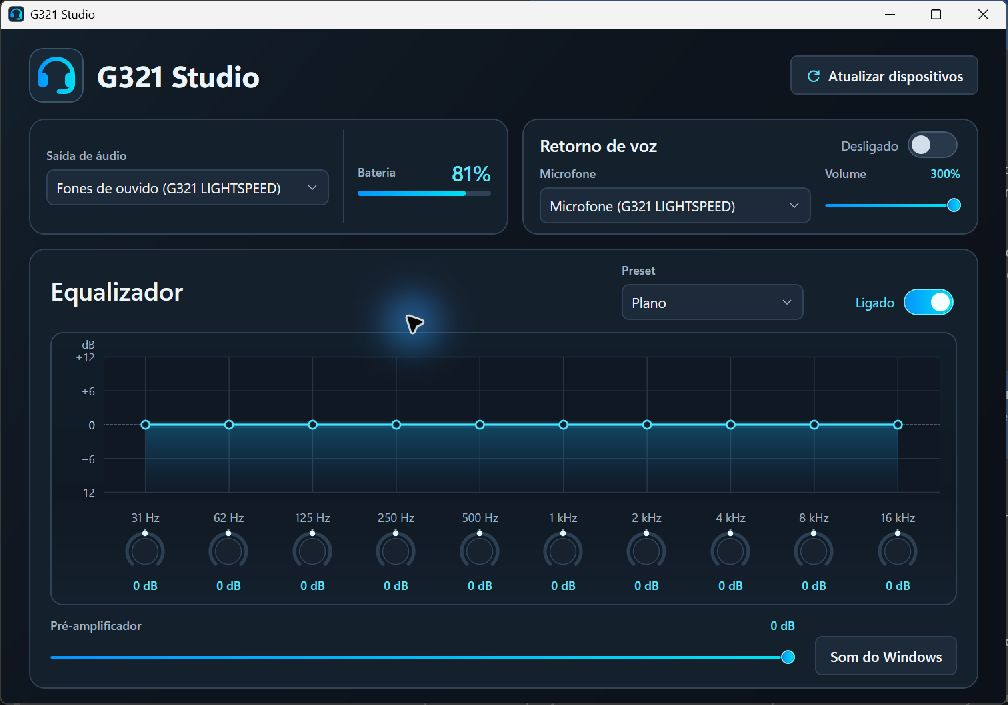
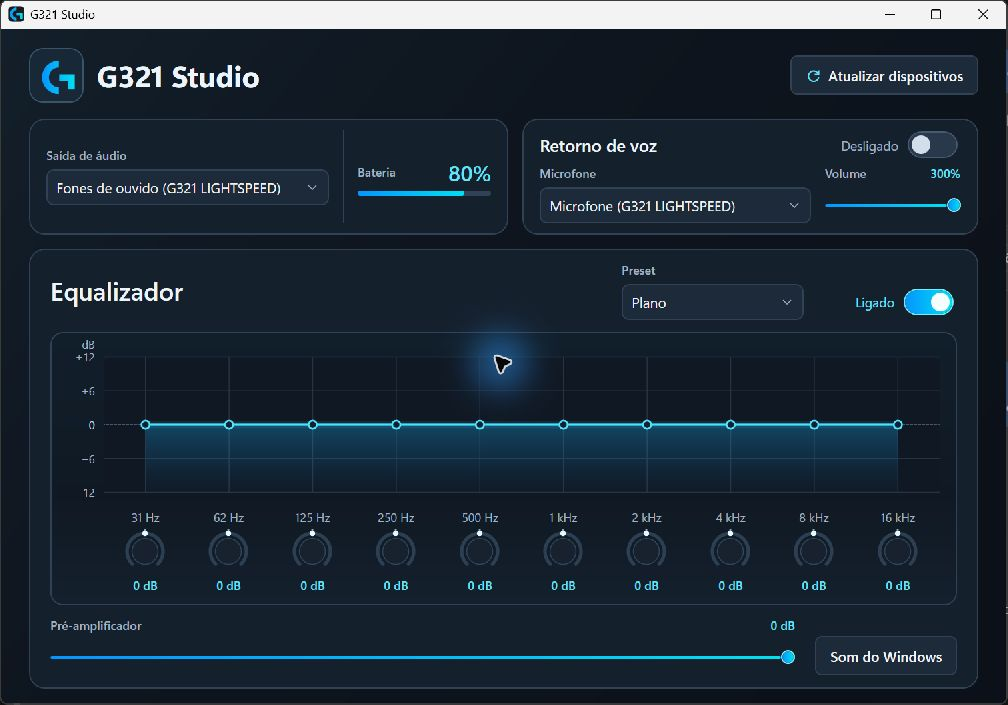
Restaura o ícone anterior e atualiza a captura do README

diff --git a/MainWindow.xaml b/MainWindow.xaml
@@ -30,14 +30,8 @@
             <GradientStop Color="#14202D" Offset="1"/>
         </LinearGradientBrush>
         <Geometry x:Key="BrandMark">
-            F1 M0,13 C0,5.82 5.82,0 13,0 C20.18,0 26,5.82 26,13 V17 H23 V13
-            C23,7.48 18.52,3 13,3 C7.48,3 3,7.48 3,13 V17 H0 Z
-            M2.5,11.5 H4.5 A2.5,2.5 0 0 1 7,14 V18.5 A2.5,2.5 0 0 1 4.5,21 H2.5
-            A2.5,2.5 0 0 1 0,18.5 V14 A2.5,2.5 0 0 1 2.5,11.5 Z
-            M21.5,11.5 H23.5 A2.5,2.5 0 0 1 26,14 V18.5 A2.5,2.5 0 0 1 23.5,21 H21.5
-            A2.5,2.5 0 0 1 19,18.5 V14 A2.5,2.5 0 0 1 21.5,11.5 Z
-            M23,18.5 H26 V19 C26,22.87 22.87,26 19,26 H15
-            A1.75,1.75 0 0 1 15,22.5 H19 C21.21,22.5 23,20.93 23,19 Z
+            M49,9 A39,39 0 0 0 49,87 L49,71 A23,23 0 0 1 49,25 Z
+            M50,41 H86 V76 H70 V57 H50 Z
         </Geometry>
         <Style TargetType="TextBlock">
             <Setter Property="TextWrapping" Value="Wrap"/>

diff --git a/README.md b/README.md
@@ -6,7 +6,9 @@ Aplicativo independente e não oficial para uso com o headset Logitech G G321 LI
 
 Requer Windows 10 (versão 2004 ou posterior) ou Windows 11. O EXE inclui as versões x64, x86 e ARM64, o ambiente .NET e o instalador oficial do Equalizer APO. [Notas da versão 1.0.1](https://github.com/gleyssonsc/g321-studio/releases/tag/v1.0.1)
 
-![G321 Studio com o headset em LIGHTSPEED, bateria em 81% e equalizador ligado no preset Plano](docs/interface.jpg)
+![G321 Studio com o ícone da Logitech, headset em LIGHTSPEED, bateria em 80% e equalizador ligado no preset Plano](docs/interface.jpg)
+
+*Captura da compilação atual do código-fonte.*
 
 ## Configuração rápida do EQ em LIGHTSPEED
 
